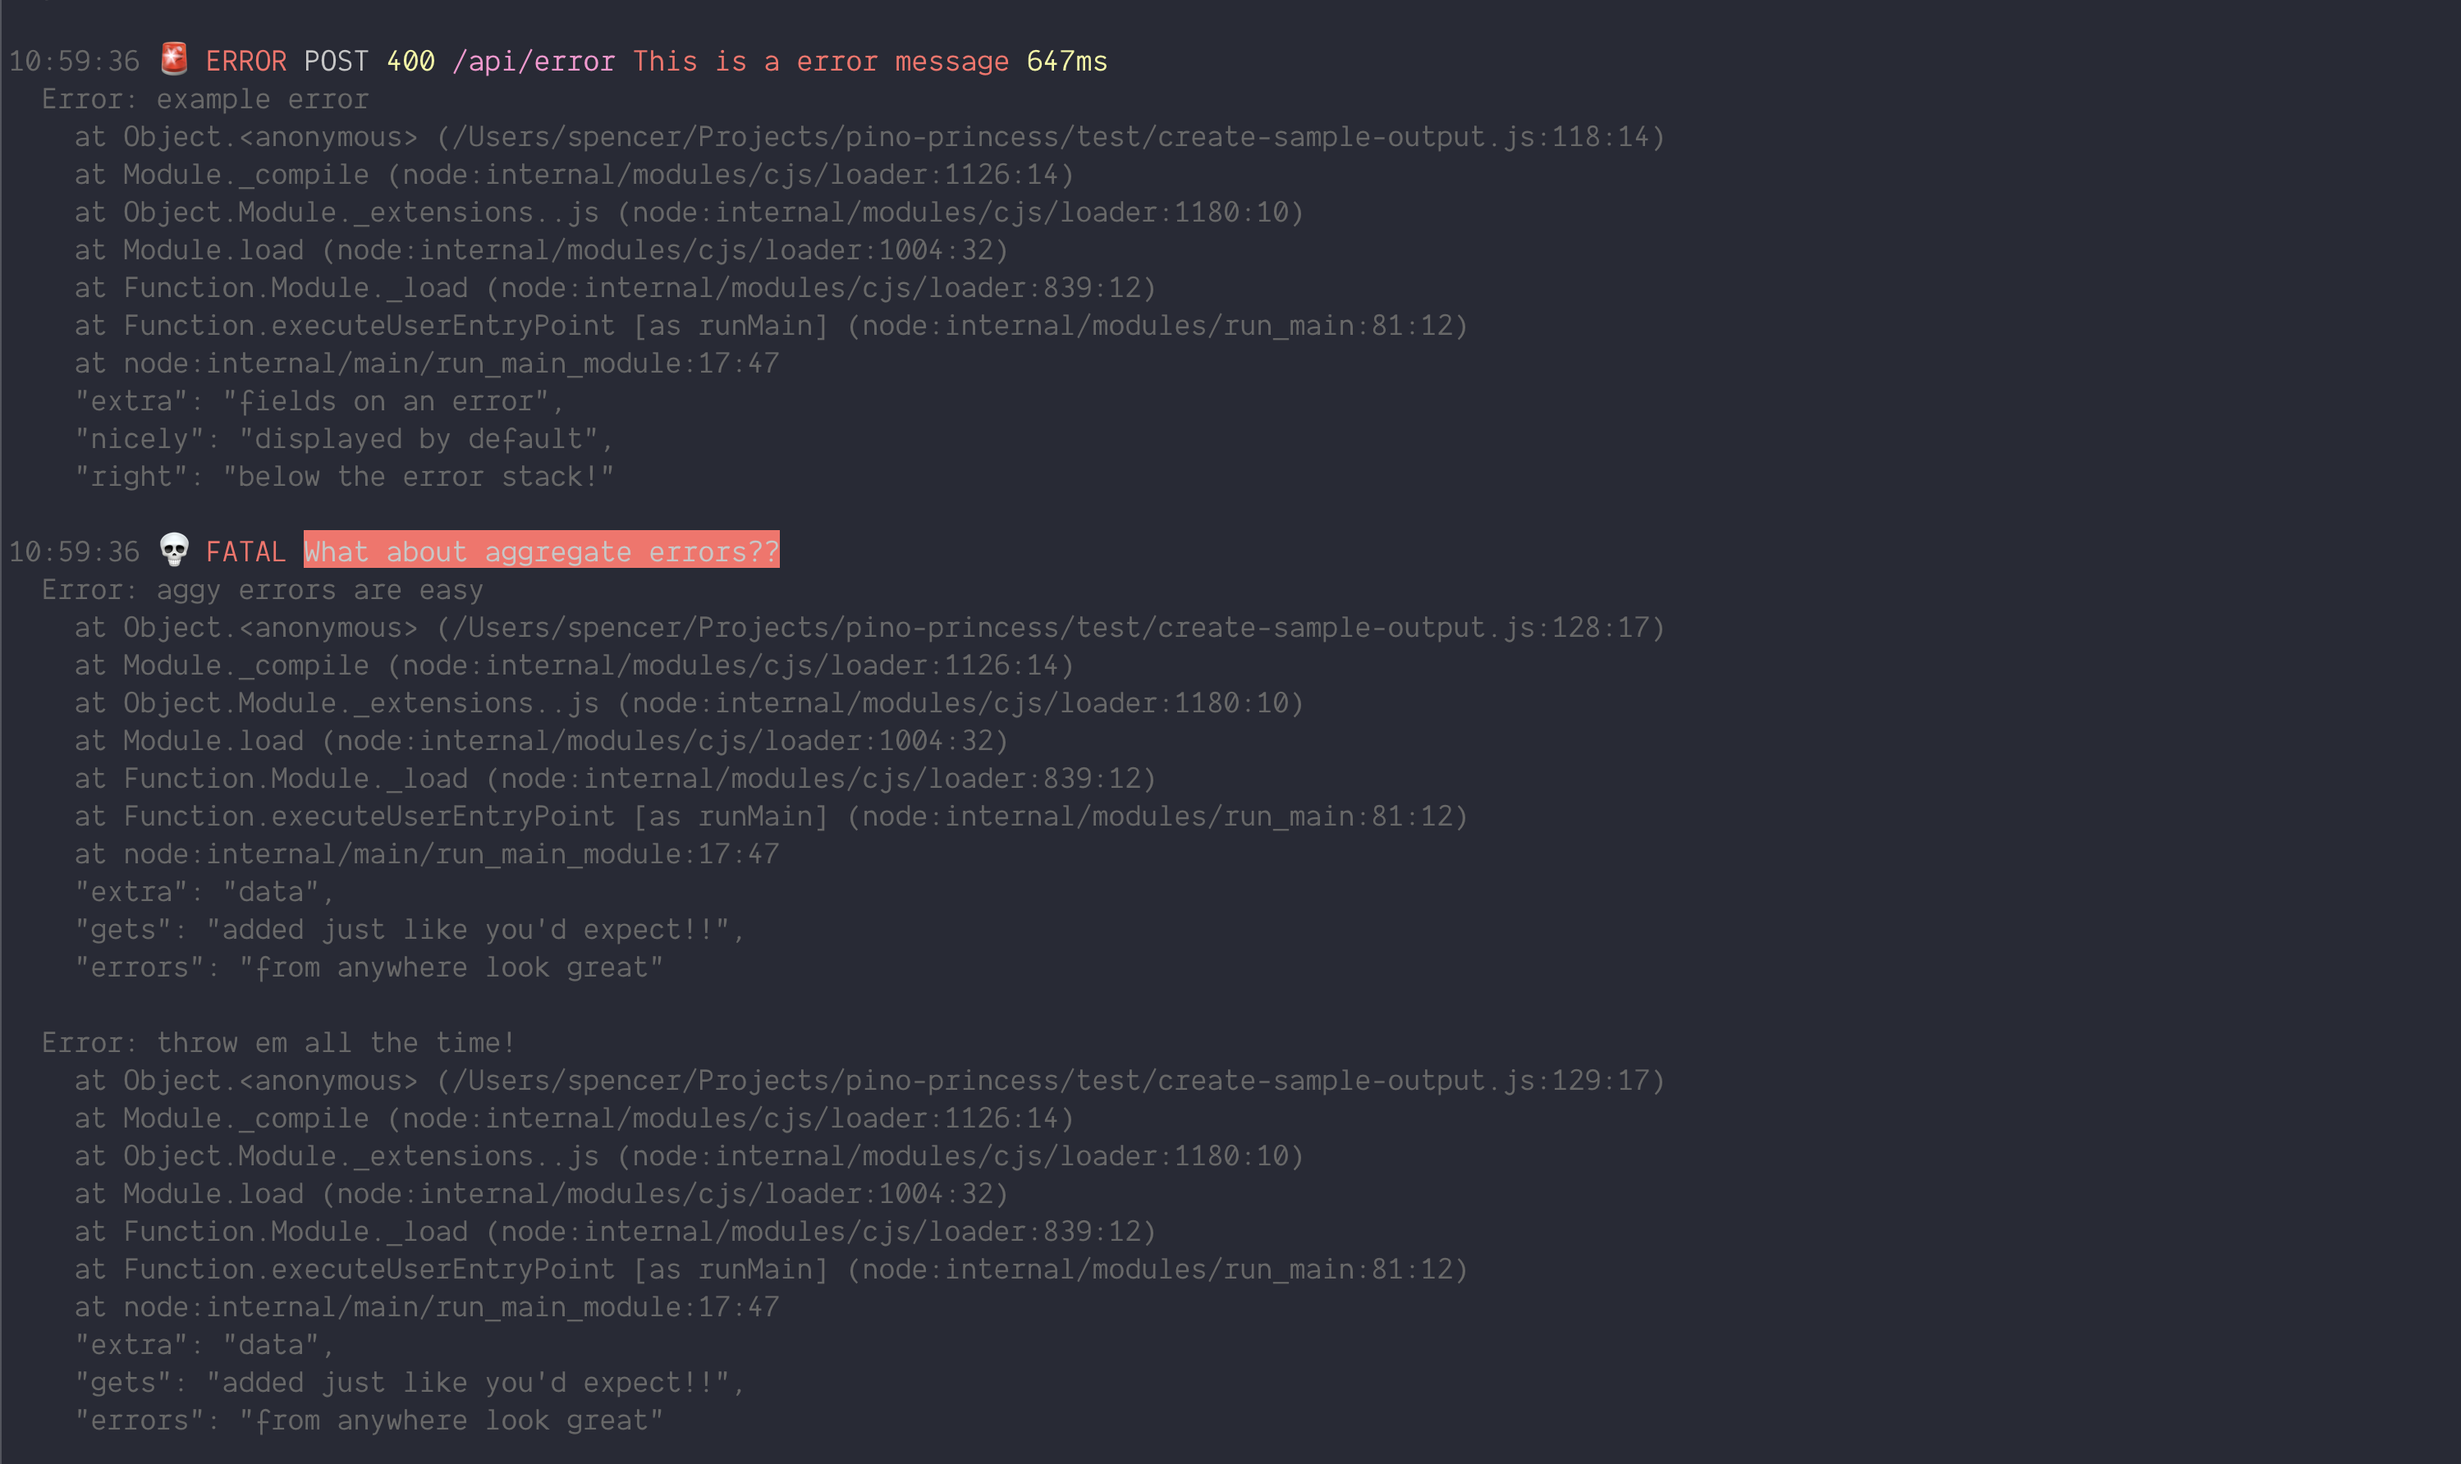
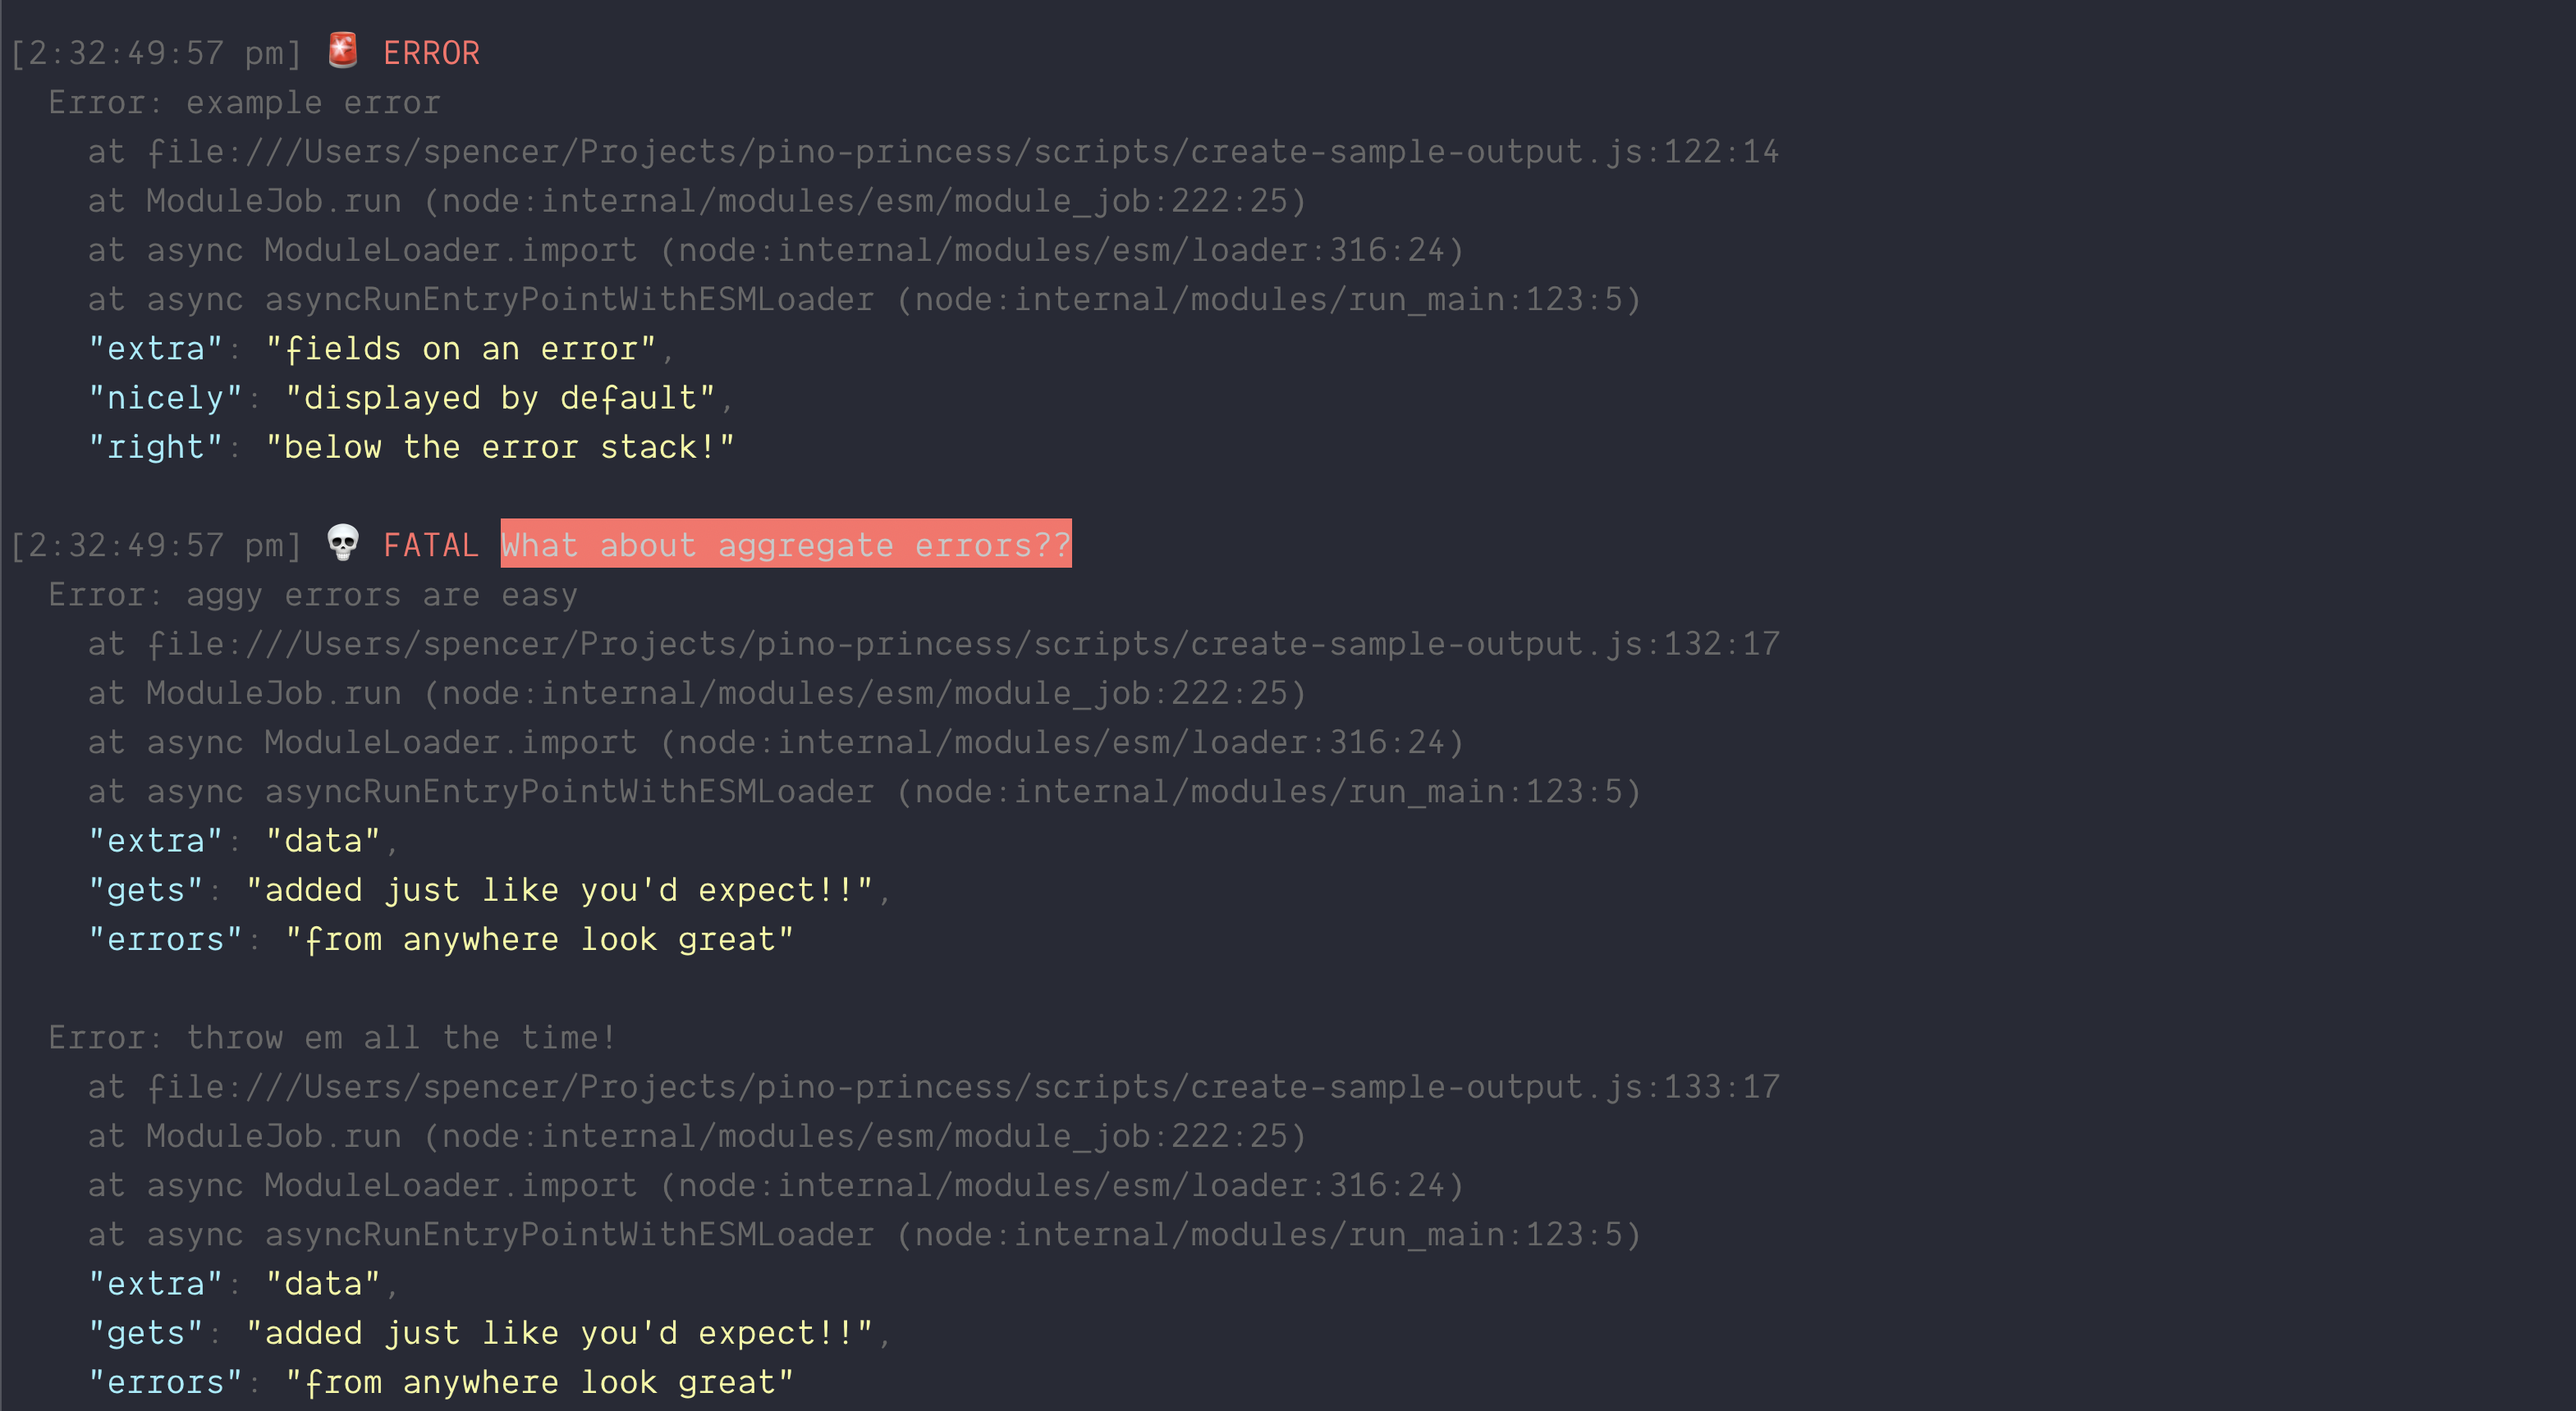
chore: fix docs

Changed region(s): [[0.0, 0.0308, 0.6825, 0.6779], [0.031, 0.7087, 0.6204, 0.986], [0.3102, 0.0308, 0.4343, 0.0616]]

diff --git a/lib/prettify.ts b/lib/prettify.ts
@@ -91,7 +91,7 @@ export function formatLoadTime(elapsedTime: string | number): string {
 }
 
 export function formatTime(instant: string | number): string {
-  return chalk.gray(`[${format(new Date(instant), 'h:mm:ss:Sbbbbb')}]`);
+  return chalk.gray(`[${format(new Date(instant), 'h:mm:ss:SS aaa')}]`);
 }
 
 export function formatName(name: string): string {
@@ -234,8 +234,8 @@ export function prettify({
     msg: formatMessage,
     responseTime: formatLoadTime,
     extraFields: formatExtraFields,
-    err: formatErrorProp,
-    'err.stack': formatStack,
+    [errorKey]: formatErrorProp,
+    [`${errorKey}.stack`]: formatStack,
     ...format,
   };
 

diff --git a/scripts/create-sample-output.js b/scripts/create-sample-output.js
@@ -47,6 +47,7 @@ const createLogLine = (level, ns, extra, msg, status = true) =>
     level,
     name: 'HTTP',
     msg: msg ?? `This is a ${ns} message`,
+    time: new Date(),
     req: {
       method: 'POST',
       url: `/api/${ns}`,
@@ -114,6 +115,7 @@ console.log();
 console.log(
   prettify({
     level: 50,
+    time: new Date(),
     err: {
       type: 'Error',
       message: 'example error',
@@ -132,6 +134,7 @@ const aggErr2 = new Error('throw em all the time!');
 console.log(
   prettify({
     level: 60,
+    time: new Date(),
     msg: 'What about aggregate errors??',
     err: {
       message: 'the primary aggregate error',

diff --git a/README.md b/README.md
@@ -8,7 +8,6 @@ Largely inspired from the great pino-colada project but with all the bells and w
   - [Features](#features)
   - [SAMPLES](#samples)
       - [Gruvbox](#gruvbox)
-      - [Dracula](#dracula)
   - [Goals](#goals)
     - [Install](#install)
   - [Usage](#usage)
@@ -29,12 +28,6 @@ Largely inspired from the great pino-colada project but with all the bells and w
 > note: these samples are created by changing terminal colors - not by changing themes in pino-princess. However, pino-princess themes are entirely configurable so both ways of changing the colors are possible.
 
 #### Gruvbox
-
-![Basic Formatting](./media/screenshot3.png)
-
-![Error Formatting](./media//screenshot4.png)
-
-#### Dracula
 
 ![Basic Formatting](./media/screenshot1.png)
 
@@ -147,7 +140,7 @@ module.exports = {
     /**
      * The color of boolean and null values
      */
-    literal: chalk.default
+    literal: chalk.default,
   }),
 
   /**
@@ -163,7 +156,7 @@ module.exports = {
     formatDate: (date) => {},
     formatName: (name) => {},
     formatMessage: (message) => {},
-    formatBundleSize:(bundleSize) => {},
+    formatBundleSize: (bundleSize) => {},
     formatNs: (ns) => {},
     formatExtraFields: (extraFields) => {},
     formatStack: (stack) => {},
@@ -171,7 +164,7 @@ module.exports = {
     formatStatusCode: (statusCode) => {},
     formatErrorProp: (err) => {},
     formatMethod: (method) => {},
-    formatId: (id) => {}
-  }
+    formatId: (id) => {},
+  },
 };
 ```
